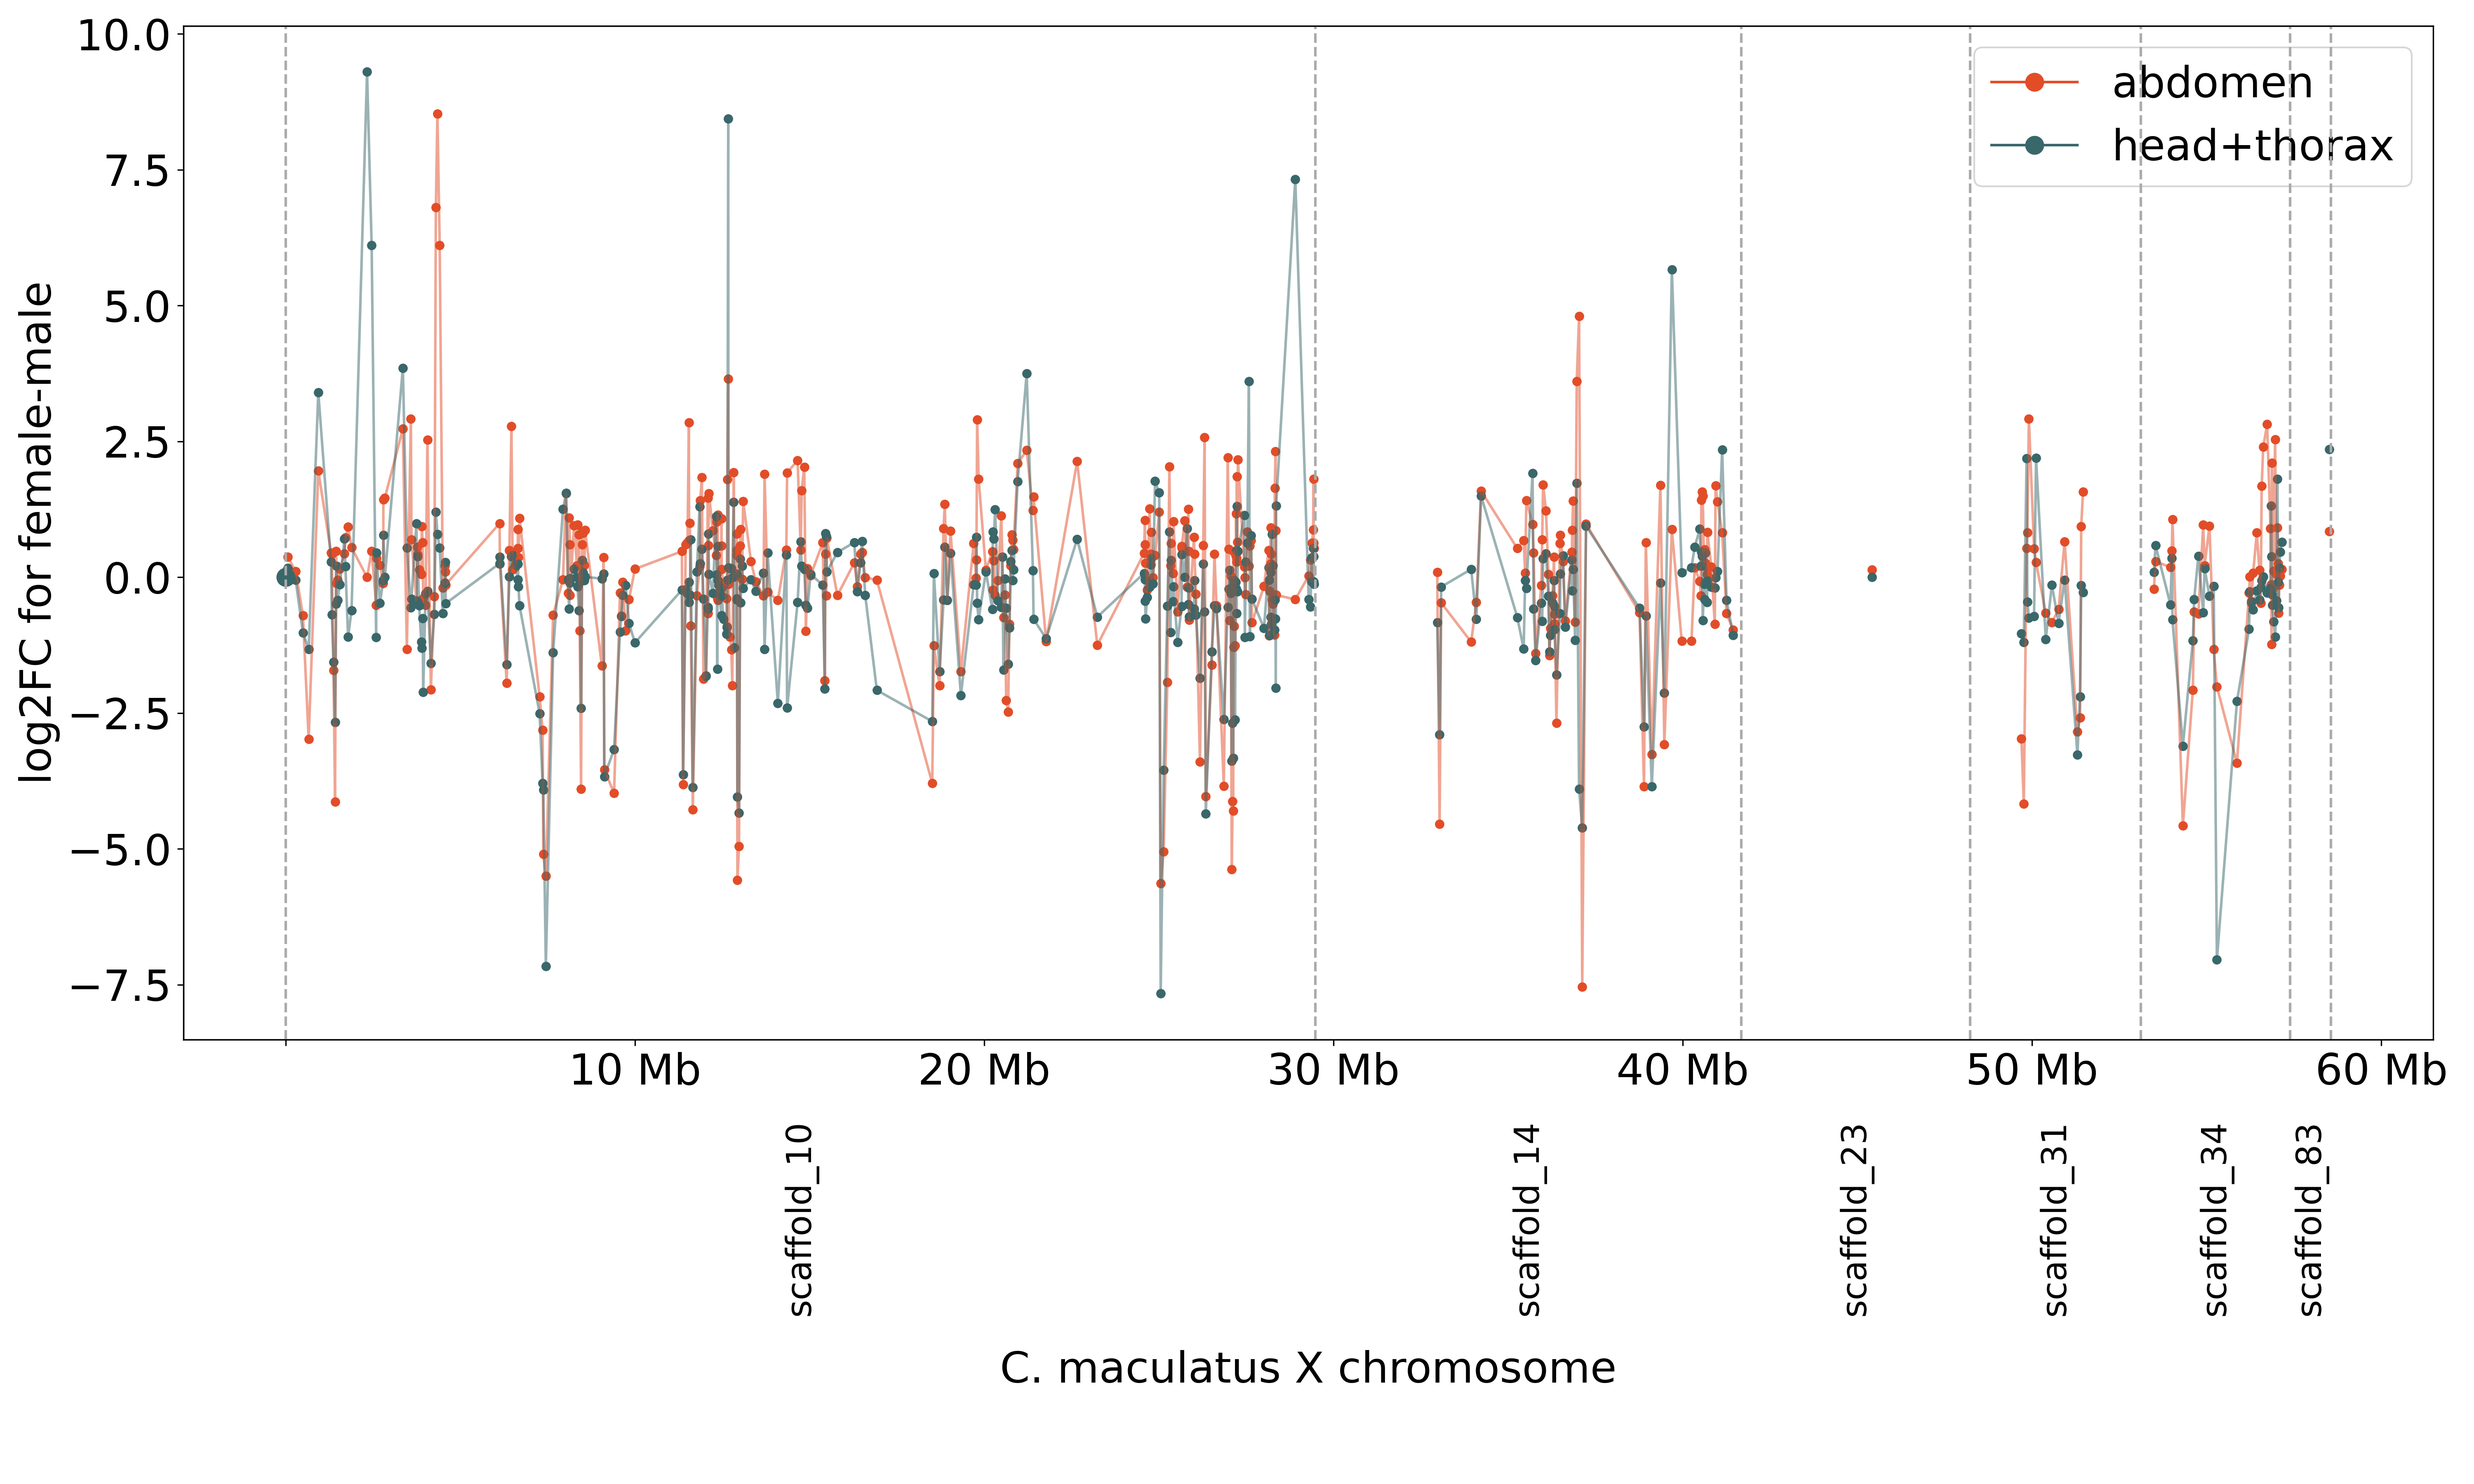
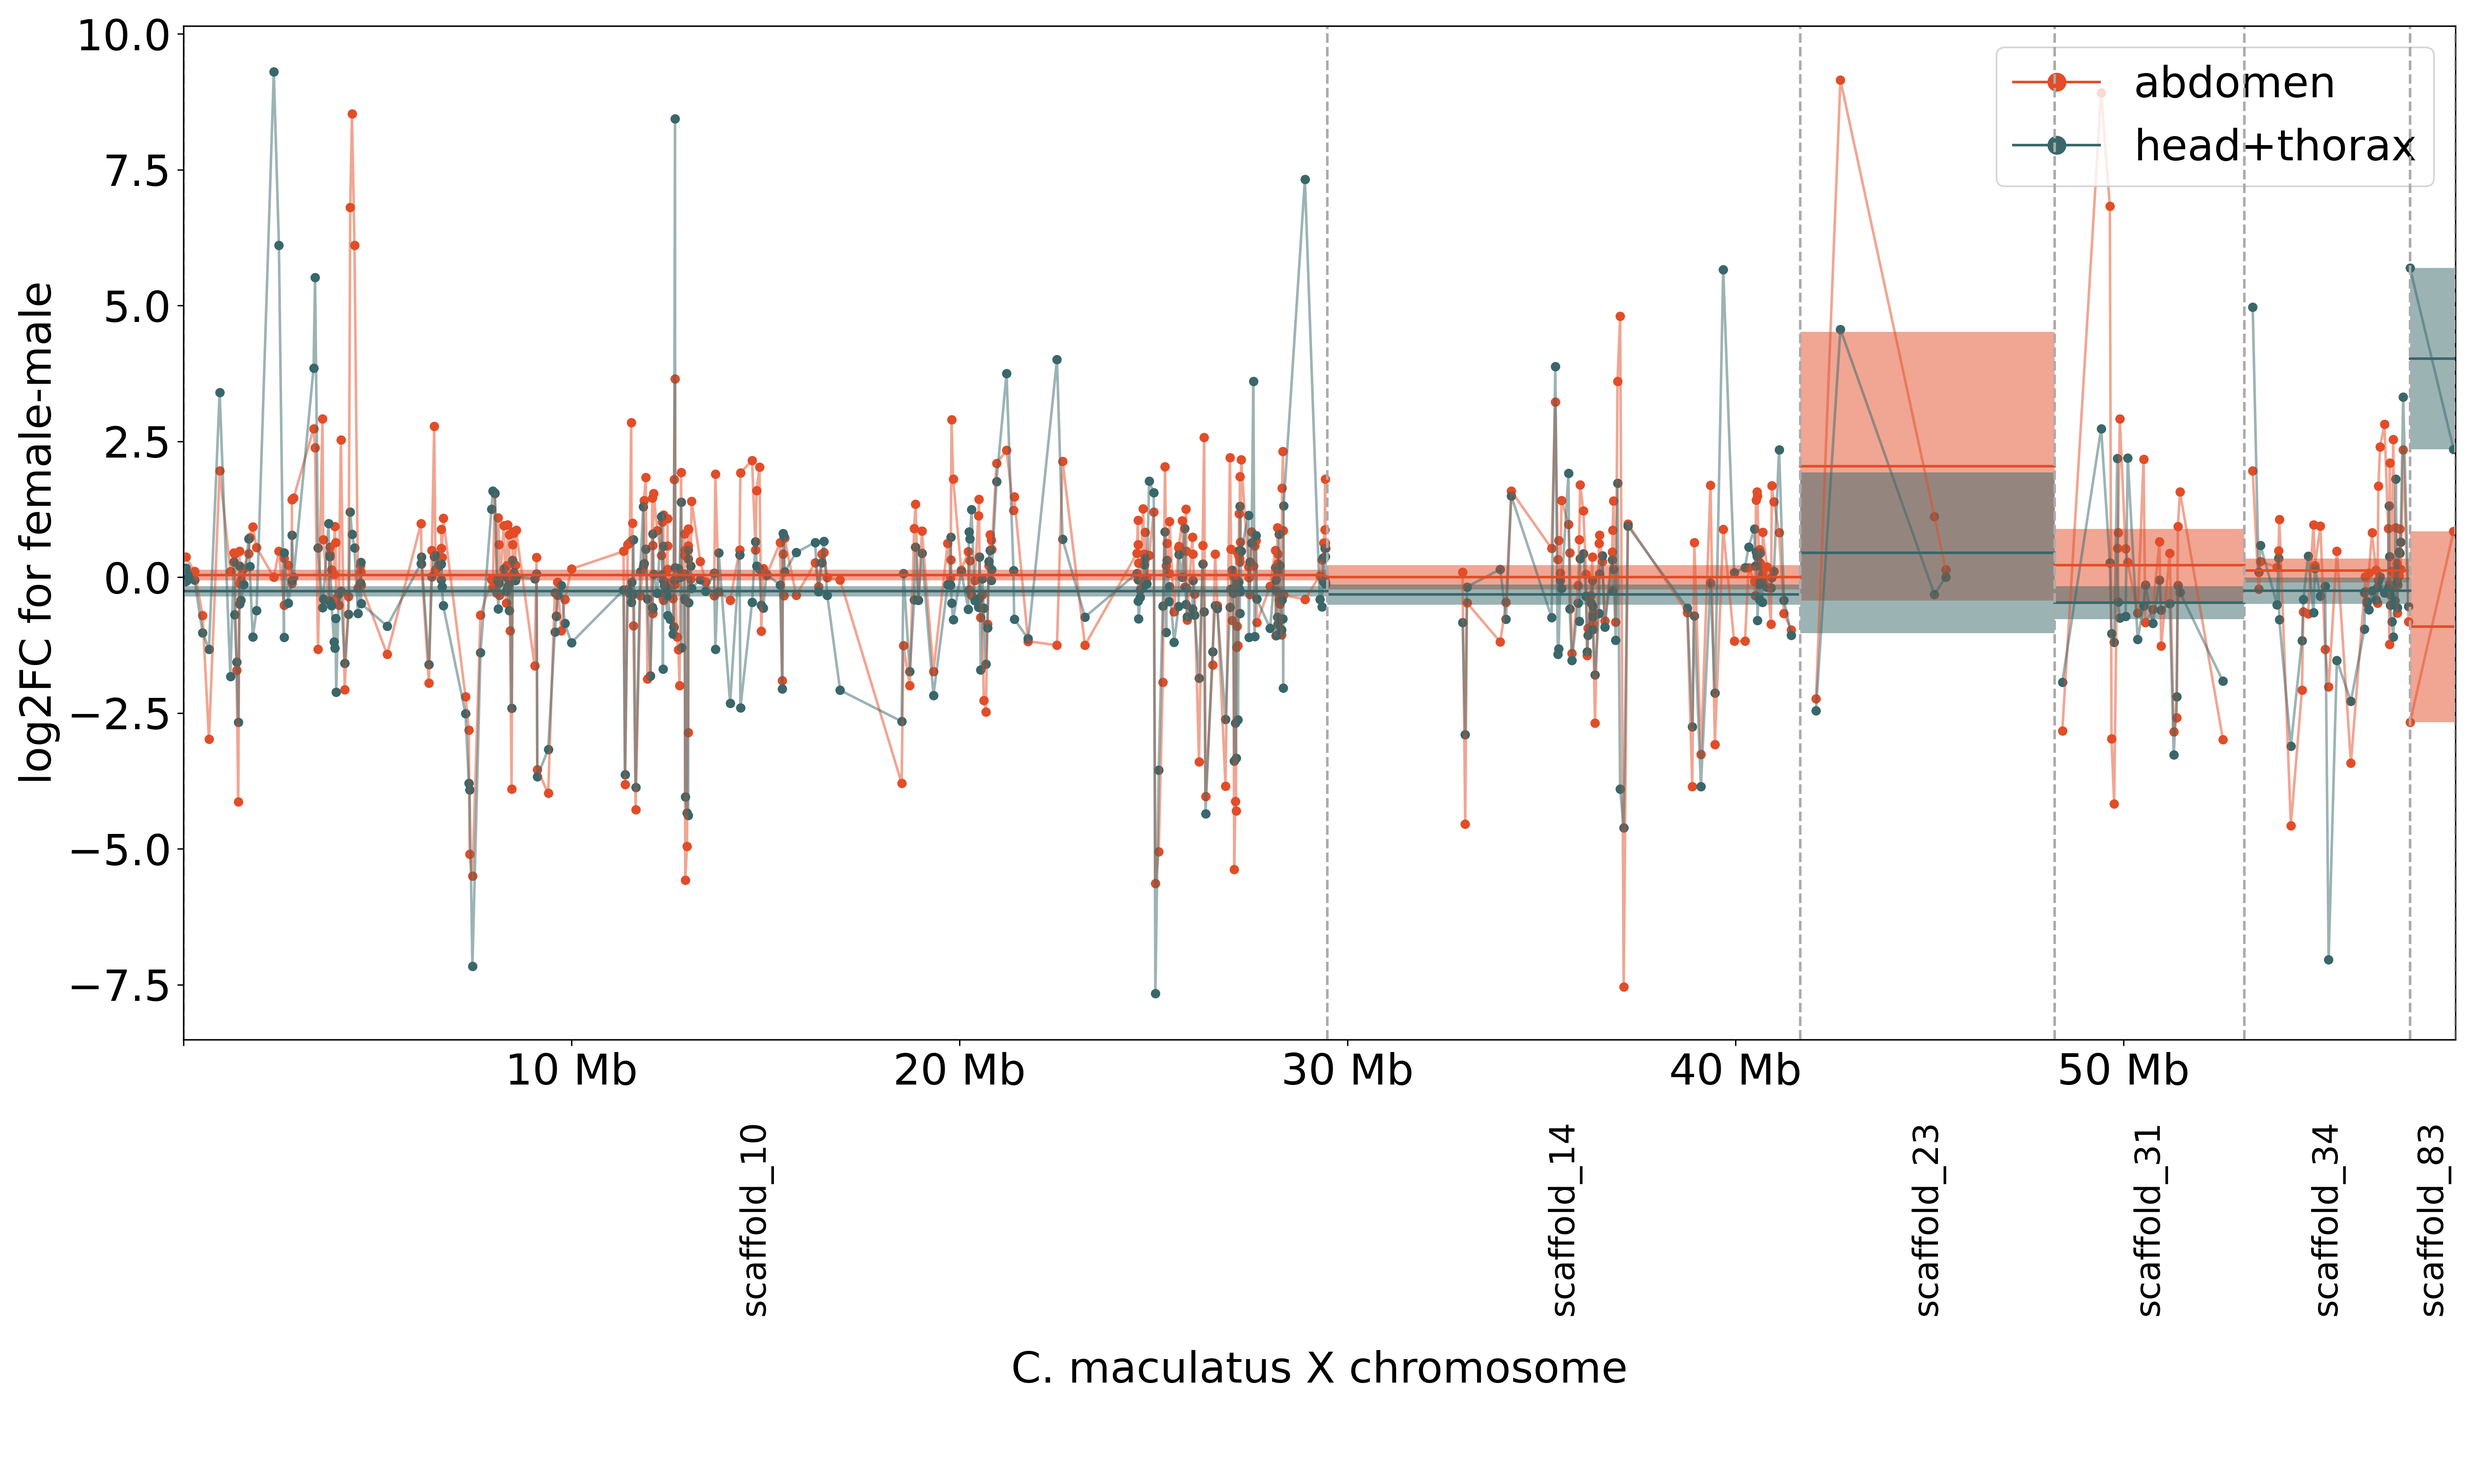
update dosage compensation

diff --git a/src/analyze_DE_stuff.py b/src/analyze_DE_stuff.py
@@ -8,6 +8,7 @@ import matplotlib.pyplot as plt
 import pandas as pd
 import numpy as np
 from matplotlib.ticker import FuncFormatter
+import scipy.stats as sts
 
 
 def get_summary_paths(username = "miltr339"):
@@ -16,6 +17,13 @@ def get_summary_paths(username = "miltr339"):
         "X" : f"/Users/{username}/work/PhD_code/PhD_chapter3/data/DE_analysis/paml_summary_tables/DE_summary_table_X_chr.tsv",
     }
     return summary_dict
+
+def get_DE_paths(username = "miltr339"):
+    paths = {
+        "head_thorax" : f"/Users/{username}/work/PhD_code/PhD_chapter3/data/DE_analysis/Cmac_sex_DE_head_thorax_edgeR.txt",
+        "abdomen" : f"/Users/{username}/work/PhD_code/PhD_chapter3/data/DE_analysis/Cmac_sex_DE_abdomen_edgeR.txt",
+    }
+    return paths
 
 def get_Cmac_superscaffolded_XY_contigs():
     return { "X" : ['scaffold_10','scaffold_14','scaffold_23','scaffold_31','scaffold_34','scaffold_83'], "Y" : ['scaffold_26','scaffold_48','scaffold_103','scaffold_112','scaffold_164']}
@@ -36,20 +44,21 @@ def get_contig_lengths(contigs_list, assembly_index):
 
 
 
-def plot_dosage_compensation(summary_path, annotation, assembly_index, X_list, outfile = ""):
+def plot_dosage_compensation(summary_paths, annotation, assembly_index, X_list, outfile = ""):
     """
     plot the log2FC of all genes on the X in both head+thorax and abdominal tissues on the y,
     the X-axis is the position of the gene on the X
     """
 
 
-    summary_data = pd.read_csv(summary_path, sep = "\t")
+    summary_data_abdomen = pd.read_csv(summary_paths["abdomen"], sep = "\t", index_col=False)
+    summary_data_head_thorax = pd.read_csv(summary_paths["head_thorax"], sep = "\t", index_col=False)
+    filtered_abdomen = summary_data_abdomen[pd.notna(summary_data_abdomen["logFC"])]
+    filtered_head_thorax = summary_data_head_thorax[pd.notna(summary_data_head_thorax["logFC"])]
 
-    
     ## get LFC information for every gene for plotting { transcriptID : LFC_float }
-    filtered = summary_data[pd.notna(summary_data["LFC_abdomen"])]
-    LFC_dict_abdomen = dict(zip(filtered["focal_transcript"], filtered["LFC_abdomen"]))
-    LFC_dict_head_thorax = dict(zip(filtered["focal_transcript"], filtered["LFC_head+thorax"]))
+    LFC_dict_abdomen = dict(zip(filtered_abdomen["geneID"], filtered_abdomen["logFC"]))
+    LFC_dict_head_thorax = dict(zip(filtered_head_thorax["geneID"], filtered_head_thorax["logFC"]))
 
     assert sorted(list(LFC_dict_abdomen.keys())) == sorted(list(LFC_dict_head_thorax.keys())) # check that there is data for all transcripts in both
 
@@ -59,14 +68,14 @@ def plot_dosage_compensation(summary_path, annotation, assembly_index, X_list, o
     for transcriptID in LFC_dict_abdomen.keys():
         transcript = annotation_dict[transcriptID]
         if transcript.contig not in X_list:
-            print(transcript)
+            # print(transcript)
             continue
         # coordinates_dict[transcript.contig][transcript.feature_id] = [transcript.start, transcript.end]
         coordinates_dict[transcript.contig][transcript.feature_id] = np.mean([transcript.start, transcript.end])
 
     ## get the X contig lenghts for plotting the X axis correctly
-    print(f"get X contig lengths ...")
     X_contig_lengths_dict = get_contig_lengths(contigs_list=X_list,assembly_index=assembly_index)
+    total_x_length = sum(list(X_contig_lengths_dict.values()))
     # sort by size for plotting
     lengths = [lengths for lengths in X_contig_lengths_dict.values()]
     lengths.sort(reverse=True)
@@ -106,11 +115,12 @@ def plot_dosage_compensation(summary_path, annotation, assembly_index, X_list, o
     
     plt.axvline(x=curr_contig_start, color=colors_dict["separators"], linestyle="--")
     for contig in contig_names_sorted_by_length:
+        
         num_genes = len(coordinates_dict[contig])
-        print(f"{contig} : {num_genes} transcripts")
         x_coord = [0.0]*num_genes
         abdomen = [0.0]*num_genes
         head_thorax = [0.0]*num_genes
+
         for i, transcript in enumerate(coordinates_dict[contig].keys()):
             x_coord[i] = coordinates_dict[contig][transcript]+curr_contig_start
             abdomen[i] = LFC_dict_abdomen[transcript]
@@ -127,8 +137,28 @@ def plot_dosage_compensation(summary_path, annotation, assembly_index, X_list, o
         
         x_contig_coords.append(curr_contig_start + X_contig_lengths_dict[contig]*0.5)
         x_contig_labels.append(contig)
+        
+        mean_min = curr_contig_start
         curr_contig_start += X_contig_lengths_dict[contig]
+        mean_max = curr_contig_start
+
         plt.axvline(x=curr_contig_start, color=colors_dict["separators"], linestyle="--")
+
+        print(f"{contig} : {num_genes} transcripts")
+        ## plot mean and standard error of the mean
+        a_mean = np.mean(abdomen)
+        a_sem = sts.sem(abdomen)
+        ht_mean = np.mean(head_thorax)
+        ht_sem = sts.sem(head_thorax)
+
+        if np.isnan(a_sem)==False:
+            print(f"\t * abdomen mean log2FC: {a_mean:.3f}, SEM: {a_sem:.3f}")
+            print(f"\t * head+thorax mean log2FC: {ht_mean:.3f}, SEM: {ht_sem:.3f}")
+            ax.axhline(y=a_mean, xmin=mean_min/total_x_length, xmax=mean_max/total_x_length, color=colors_dict["abdomen"], linestyle="-") 
+            ax.axhline(y=ht_mean, xmin=mean_min/total_x_length, xmax=mean_max/total_x_length, color=colors_dict["head+thorax"], linestyle="-") 
+            ax.axhspan(ymin=a_mean-a_sem, ymax=a_mean+a_sem, xmin=mean_min/total_x_length, xmax=mean_max/total_x_length,color=colors_dict["abdomen"],  alpha=.5, linewidth = 0)
+            ax.axhspan(ymin=ht_mean-ht_sem, ymax=ht_mean+ht_sem, xmin=mean_min/total_x_length, xmax=mean_max/total_x_length, color=colors_dict["head+thorax"], alpha=.5, linewidth = 0)
+
 
     ## set x axis labels and ticks correctly with contig names and stuff
     ax.xaxis.set_major_formatter(FuncFormatter(lambda x, pos: '' if x < 0.01 else f'{x / 1e6:.0f} Mb'))
@@ -147,7 +177,8 @@ def plot_dosage_compensation(summary_path, annotation, assembly_index, X_list, o
     ax.tick_params(axis='y', labelsize=fs)
     ax2.tick_params(axis='x', labelsize=fs*0.8, rotation = rot)
 
-    ax.set_xlim(0-0.05*curr_contig_start, curr_contig_start+0.05*curr_contig_start)
+    # ax.set_xlim(0-0.05*curr_contig_start, curr_contig_start+0.05*curr_contig_start)
+    ax.set_xlim(0, curr_contig_start)
 
     ## plot for legend
     ax.plot(-1e3, 0, color = colors_dict["abdomen"], marker=".", markersize=ps, label = "abdomen")
@@ -159,8 +190,12 @@ def plot_dosage_compensation(summary_path, annotation, assembly_index, X_list, o
 
     plt.tight_layout(rect=[0, 0.05, 1, 1])
 
-    plt.savefig(outfile, dpi = 300, transparent = False)
-    print(f"plot saved in current working directory as: {outfile}")
+    # transparent background
+    plt.savefig(outfile, dpi = 300, transparent = True)
+    # non-transparent background
+    filename_tr = outfile.replace(".png", "_white_bg.png")
+    plt.savefig(filename_tr, dpi = 300, transparent = False)
+    print(f"plot saved in current working directory as: {outfile} and {filename_tr}")
 
 
 
@@ -171,10 +206,11 @@ if __name__ == "__main__":
     Cmac_annotation = f"/Users/{username}/work/native_annotations/all_native_annot/C_maculatus_superscaffolded_LomeRNA_braker_isoform_filtered.gff"
     # milenatr@pelle.uppmax.uu.se:/proj/naiss2023-6-65/Milena/annotation_pipeline/Cmac_Lome_superscaffolded_comparison/Cmac_Lome_diverse/Cmac_Lome_diverse/braker/braker_isoform_filtered.gff
     Cmac_assembly = f"/Users/{username}/work/assemblies_masked_uniform/C_maculatus_superscaffolded_genomic_fasta.masked.fai" # I only need contig lengths so use assembly index
-    summary_paths = get_summary_paths()
+    summary_paths = get_summary_paths(username=username)
+    DE_paths = get_DE_paths(username=username)
     Cmac_X_contigs_list = get_Cmac_superscaffolded_XY_contigs()["X"]
 
     if True:
-        plot_dosage_compensation(summary_path=summary_paths["X"], annotation=Cmac_annotation, assembly_index=Cmac_assembly, X_list=Cmac_X_contigs_list, 
+        plot_dosage_compensation(summary_paths=DE_paths, annotation=Cmac_annotation, assembly_index=Cmac_assembly, X_list=Cmac_X_contigs_list, 
             outfile=f"/Users/{username}/work/PhD_code/PhD_chapter3/data/DE_analysis/X_sex_bias.png")
 

diff --git a/README.md b/README.md
@@ -606,9 +606,38 @@ number of sex-biased genes in female-male contrast:
 | upregulated   | 2793          | 805           |
 
 
+### Dosage compensation
+
+Theoretically, dosage compensation should be weaker in the abdominal tissues since that is where the reproductive organs are (which are not dosage compensated), which would show as stronger female-bias on the X in abdominal tissues than head+thorax. I have plotted the log2FC of X-linked genes in C. maculatus along the X-chromosomal position:
+
+<p float="left">
+  <img src="data/DE_analysis/X_sex_bias_white_bg.png" width="90%" />
+</p>
+
+I calculated the standard error of the mean (SEM) with `scipy.stats.sem` which takes sample size into account.
+
+* scaffold_10 : 300 transcripts
+	 * abdomen mean log2FC: 0.043, SEM: 0.099
+	 * head+thorax mean log2FC: -0.258, SEM: 0.097
+* scaffold_14 : 67 transcripts
+	 * abdomen mean log2FC: -0.001, SEM: 0.221
+	 * head+thorax mean log2FC: -0.317, SEM: 0.186
+* scaffold_23 : 4 transcripts
+	 * abdomen mean log2FC: 2.043, SEM: 2.472
+	 * head+thorax mean log2FC: 0.450, SEM: 1.476
+* scaffold_31 : 22 transcripts
+	 * abdomen mean log2FC: 0.222, SEM: 0.665
+	 * head+thorax mean log2FC: -0.466, SEM: 0.302
+* scaffold_34 : 44 transcripts
+	 * abdomen mean log2FC: 0.125, SEM: 0.218
+	 * head+thorax mean log2FC: -0.247, SEM: 0.246
+* scaffold_83 : 2 transcripts
+	 * abdomen mean log2FC: -0.910, SEM: 1.759
+	 * head+thorax mean log2FC: 4.023, SEM: 1.668
+
 ## combining sex-biased expression with molecular rate and positive selection
 
-
+TODO
 
 # old analysis with *Diorhaba*
  I suspect that *D. carinulata* has a misidentified X chromosome, which leaves it only three 1-to-1 orthologs. I looked into it a bit here, in case it is X turnover. I would need actual lab evidence to conclude that thoug I think, since the X is so conserved in all the other *Coleoptera* I have here.
